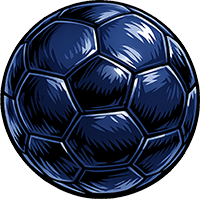
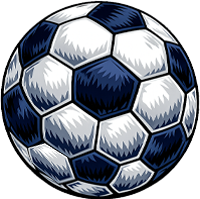
feat: implement non-linear ball rotation and character head tracking

diff --git a/lib/lesson_21/animated_ball_screen.dart b/lib/lesson_21/animated_ball_screen.dart
@@ -1,5 +1,6 @@
-import 'dart:math' as math; // Імпортуємо math для використання константи pi
+import 'dart:math' as math;
 import 'package:flutter/material.dart';
+import 'package:flutter_lab/lesson_21/left_character_widget.dart';
 
 class AnimatedBallScreen extends StatefulWidget {
   const AnimatedBallScreen({super.key});
@@ -12,7 +13,7 @@ class _AnimatedBallScreenState extends State<AnimatedBallScreen>
     with SingleTickerProviderStateMixin {
   late AnimationController _controller;
   late Animation<double> _ballAnimation;
-  late Animation<double> _rotationAnimation; // Додаємо анімацію обертання
+  late Animation<double> _rotationAnimation;
 
   bool _initialized = false;
 
@@ -30,8 +31,6 @@ class _AnimatedBallScreenState extends State<AnimatedBallScreen>
       duration: const Duration(milliseconds: 1600),
     );
 
-    // Налаштовуємо обертання: від 0 до 4 * pi (720 градусів)
-    // Curves.easeInOut забезпечує повільний старт, розгін в середині та сповільнення в кінці
     _rotationAnimation =
         Tween<double>(
           begin: 0.0,
@@ -55,14 +54,11 @@ class _AnimatedBallScreenState extends State<AnimatedBallScreen>
       final statusBar = media.padding.top;
       final appBar = AppBar().preferredSize.height;
 
-      // Верхня межа
       topPosition = statusBar + appBar + 20;
 
-      // Верх темної плашки
       groundPosition = screenHeight - 256 - ballSize;
 
       _ballAnimation = TweenSequence<double>([
-        // Політ вгору
         TweenSequenceItem(
           tween:
               Tween(
@@ -76,7 +72,6 @@ class _AnimatedBallScreenState extends State<AnimatedBallScreen>
           weight: 45,
         ),
 
-        // Падіння вниз з відскоком
         TweenSequenceItem(
           tween:
               Tween(
@@ -109,18 +104,29 @@ class _AnimatedBallScreenState extends State<AnimatedBallScreen>
 
   @override
   Widget build(BuildContext context) {
+    final media = MediaQuery.of(context);
+    final statusBar = media.padding.top;
+    final appBarHeight = AppBar().preferredSize.height;
+    final instructionTop = statusBar + appBarHeight + 40.0;
+
     return Scaffold(
       backgroundColor: Colors.transparent,
       extendBodyBehindAppBar: true,
       appBar: AppBar(
-        title: const Text('Animated Ball'),
+        title: const Text(
+          'Animated Ball',
+          style: TextStyle(
+            color: Colors.white,
+            fontFamily: 'Montserrat',
+            fontWeight: FontWeight.w500,
+          ),
+        ),
         backgroundColor: const Color(0xFF0D1828),
         foregroundColor: Colors.white,
         elevation: 0,
       ),
       body: Stack(
         children: [
-          // Фон
           Positioned.fill(
             child: Container(
               decoration: const BoxDecoration(
@@ -136,7 +142,6 @@ class _AnimatedBallScreenState extends State<AnimatedBallScreen>
             ),
           ),
 
-          // Нижня плашка
           Positioned(
             bottom: 0,
             left: 0,
@@ -156,19 +161,66 @@ class _AnimatedBallScreenState extends State<AnimatedBallScreen>
             ),
           ),
 
-          // М'яч
+          Positioned(
+            top: instructionTop,
+            left: 0,
+            right: 0,
+            child: const IgnorePointer(
+              ignoring: true,
+              child: Padding(
+                padding: EdgeInsets.symmetric(horizontal: 50.0),
+                child: Center(
+                  child: Text(
+                    "Для старту анімації натисніть на м'ячик",
+                    textAlign: TextAlign.center,
+                    style: TextStyle(
+                      color: Color(0xFF67808F),
+                      fontSize: 22,
+                      fontFamily: 'Montserrat',
+                    ),
+                  ),
+                ),
+              ),
+            ),
+          ),
+
+          // персонаж
           if (_initialized)
             AnimatedBuilder(
-              // Слухаємо обидві анімації через базовий контролер
               animation: _controller,
               builder: (context, child) {
+                final screenWidth = MediaQuery.of(context).size.width;
+                final targetLeft =
+                    screenWidth - (screenWidth / 3) - (ballSize / 2);
+
+                return Positioned(
+                  bottom: 20,
+                  left: 20,
+                  child: LeftCharacterWidget(
+                    ballY: _ballAnimation.value,
+                    ballX: targetLeft,
+                  ),
+                );
+              },
+            ),
+
+          // мяч
+          if (_initialized)
+            AnimatedBuilder(
+              animation: _controller,
+              builder: (context, child) {
+                final screenWidth = MediaQuery.of(context).size.width;
+
+                final targetLeft =
+                    screenWidth - (screenWidth / 3) - (ballSize / 2);
+
                 return Positioned(
                   top: _ballAnimation.value,
-                  left: MediaQuery.of(context).size.width / 2 - ballSize / 2,
+                  left: targetLeft,
                   child: GestureDetector(
                     onTap: _jump,
                     child: Transform.rotate(
-                      angle: _rotationAnimation.value, // Закручуємо м'яч
+                      angle: _rotationAnimation.value,
                       child: Container(
                         width: ballSize,
                         height: ballSize,

diff --git a/lib/lesson_21/left_character_widget.dart b/lib/lesson_21/left_character_widget.dart
@@ -1,0 +1,85 @@
+import 'dart:math' as math;
+import 'package:flutter/material.dart';
+
+class LeftCharacterWidget extends StatelessWidget {
+  const LeftCharacterWidget({
+    required this.ballY,
+    required this.ballX,
+    super.key,
+  });
+  final double ballY;
+  final double ballX;
+
+  @override
+  Widget build(BuildContext context) {
+    const double characterWidth = 145;
+    const double characterHeight = 381;
+    const double ballSize = 80;
+
+    // позиція персонажа на екрані
+    const double charScreenLeft = 20;
+    final screenHeight = MediaQuery.of(context).size.height;
+    final charScreenTop = screenHeight - 20 - characterHeight;
+
+    // координати точки шиї
+    const double neckInsideHeadX = 85;
+    const double neckInsideHeadY = 110;
+
+    const neckGlobalX = charScreenLeft + neckInsideHeadX;
+    final neckGlobalTop = charScreenTop + neckInsideHeadY;
+
+    final ballCenterX = ballX + (ballSize / 2);
+    final ballCenterY = ballY + (ballSize / 2);
+
+    // кут між точкою шиї та центром мяча
+    final deltaX = ballCenterX - neckGlobalX;
+    final deltaY = ballCenterY - neckGlobalTop;
+
+    var targetAngle = math.atan2(deltaY, deltaX);
+
+    // стартовий кут
+    const targetStartAngle = 30 * math.pi / 180;
+
+    targetAngle += targetStartAngle - 0.11;
+
+    return SizedBox(
+      width: characterWidth,
+      height: characterHeight,
+      child: Stack(
+        clipBehavior: Clip.none,
+        children: [
+          Positioned(
+            bottom: 0,
+            right: 0,
+            width: 123,
+            height: 276,
+            child: Image.asset(
+              'assets/images/body.png',
+              fit: BoxFit.contain,
+            ),
+          ),
+
+          // голова крутиться
+          Positioned(
+            top: 0,
+            left: -8,
+            width: 131,
+            height: 127,
+            child: Transform.rotate(
+              angle: targetAngle,
+              origin: const Offset(
+                neckInsideHeadX,
+                neckInsideHeadY,
+              ),
+              alignment: Alignment.topLeft,
+              child: Image.asset(
+                'assets/images/head.png',
+                fit: BoxFit.contain,
+              ),
+            ),
+          ),
+        ],
+      ),
+    );
+  }
+}
